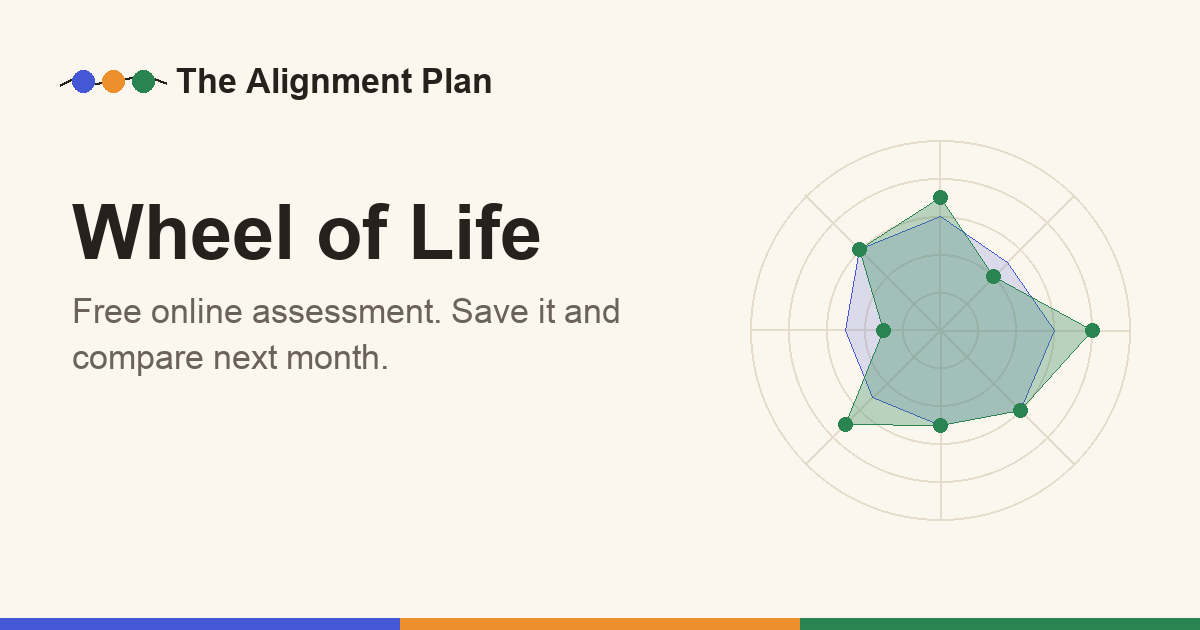
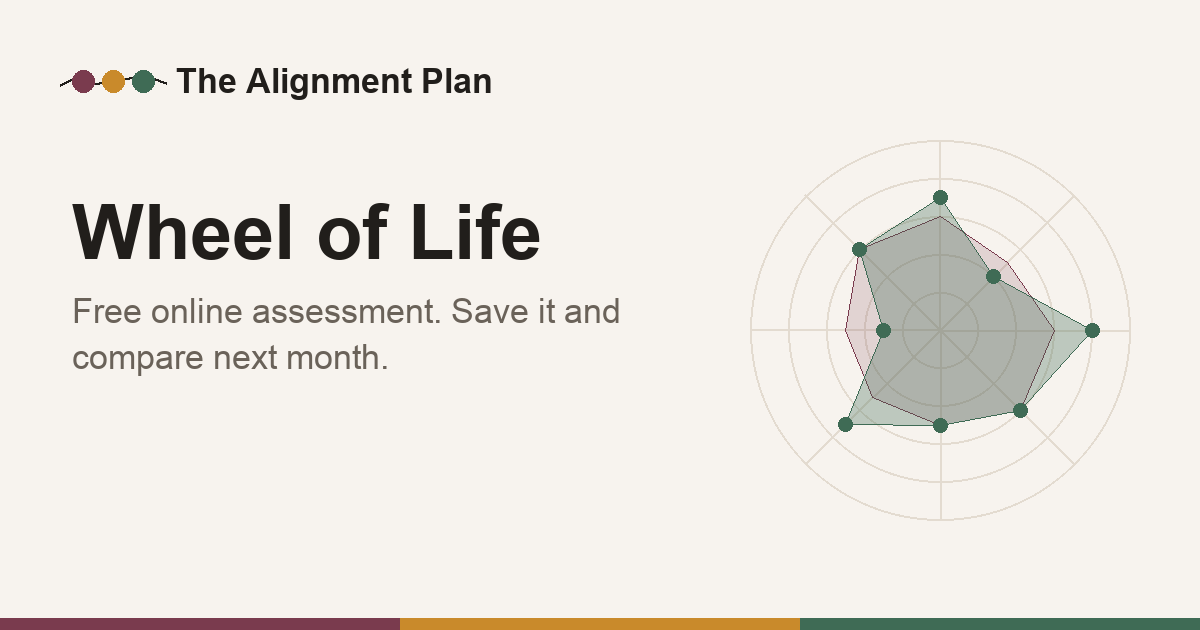
Identity v2: mulberry, honey and sage on stone, serif italic accent
The primary blue, orange and green and the blue handwriting are gone.
Three muted step colours, Instrument Serif italic for the accent word
and for the words a person wrote in the example screens. No margin notes.

diff --git a/assets/wheel.js b/assets/wheel.js
@@ -79,14 +79,14 @@
     }
     function poly(vals) { return vals.map(function (v, i) { return pt(i, v).map(function (n) { return n.toFixed(1); }).join(","); }).join(" "); }
     for (var ring = 2; ring <= 10; ring += 2) {
-      svg.appendChild(el("circle", { cx: cx, cy: cy, r: (ring / 10) * R, fill: "none", stroke: "#6b6259", "stroke-opacity": 0.25, "stroke-width": 1 }));
+      svg.appendChild(el("circle", { cx: cx, cy: cy, r: (ring / 10) * R, fill: "none", stroke: "#6a6259", "stroke-opacity": 0.25, "stroke-width": 1 }));
     }
     [5, 10].forEach(function (n) {
-      svg.appendChild(el("text", { x: cx + 4, y: cy - (n / 10) * R + 13, fill: "#6b6259", "font-size": 11, "font-family": "Instrument Sans, Arial, sans-serif" }, String(n)));
+      svg.appendChild(el("text", { x: cx + 4, y: cy - (n / 10) * R + 13, fill: "#6a6259", "font-size": 11, "font-family": "Instrument Sans, Arial, sans-serif" }, String(n)));
     });
     labels.forEach(function (name, i) {
       var p = pt(i, 10);
-      svg.appendChild(el("line", { x1: cx, y1: cy, x2: p[0], y2: p[1], stroke: "#6b6259", "stroke-opacity": 0.35, "stroke-width": 1 }));
+      svg.appendChild(el("line", { x1: cx, y1: cy, x2: p[0], y2: p[1], stroke: "#6a6259", "stroke-opacity": 0.35, "stroke-width": 1 }));
       var lp = pt(i, 11.1);
       var middle = Math.abs(lp[0] - cx) < 10;
       var anchor = middle ? "middle" : (lp[0] < cx ? "end" : "start");
@@ -95,7 +95,7 @@
       if (middle && lp[1] < cy) y = lp[1] - 4 - (lines.length - 1) * lh;      // top: stack upwards
       else if (middle) y = lp[1] + font;                                       // bottom: stack downwards
       else y = lp[1] + font * 0.35 - (lines.length - 1) * lh / 2;              // sides: centre on the spoke
-      var t = el("text", { x: lp[0].toFixed(1), y: y.toFixed(1), "text-anchor": anchor, fill: "#26211c", "font-size": font, "font-family": "Instrument Sans, Arial, sans-serif", "font-weight": 600 });
+      var t = el("text", { x: lp[0].toFixed(1), y: y.toFixed(1), "text-anchor": anchor, fill: "#211e1b", "font-size": font, "font-family": "Instrument Sans, Arial, sans-serif", "font-weight": 600 });
       lines.forEach(function (line, n) { t.appendChild(el("tspan", { x: lp[0].toFixed(1), dy: n ? lh : 0 }, line)); });
       svg.appendChild(t);
       // A long custom name is shrunk to fit inside the picture instead of being cut off.
@@ -107,9 +107,9 @@
     });
     if (blank) return;
     var cmp = entryById(compareId);
-    if (cmp) svg.appendChild(el("polygon", { points: poly(cmp.scores), fill: "#4458d6", "fill-opacity": 0.16, stroke: "#4458d6", "stroke-width": 1.5 }));
-    svg.appendChild(el("polygon", { points: poly(now), fill: "#2a8452", "fill-opacity": 0.28, stroke: "#2a8452", "stroke-width": 2.5 }));
-    now.forEach(function (v, i) { var p = pt(i, v); svg.appendChild(el("circle", { cx: p[0].toFixed(1), cy: p[1].toFixed(1), r: 4.5, fill: "#2a8452" })); });
+    if (cmp) svg.appendChild(el("polygon", { points: poly(cmp.scores), fill: "#7a3b4e", "fill-opacity": 0.16, stroke: "#7a3b4e", "stroke-width": 1.5 }));
+    svg.appendChild(el("polygon", { points: poly(now), fill: "#3f6b55", "fill-opacity": 0.28, stroke: "#3f6b55", "stroke-width": 2.5 }));
+    now.forEach(function (v, i) { var p = pt(i, v); svg.appendChild(el("circle", { cx: p[0].toFixed(1), cy: p[1].toFixed(1), r: 4.5, fill: "#3f6b55" })); });
     svg.setAttribute("aria-label", "Your wheel of life. " + labels.map(function (l, i) { return l + " " + now[i]; }).join(", ") + ".");
   }
 

diff --git a/assets/home.css b/assets/home.css
@@ -213,12 +213,11 @@
   .tools .hub .go { grid-column: 2; grid-row: 1 / span 2; margin: 0; font-size: 14px; color: var(--ink-2); }
 }
 
-/* ---- Identity: what it is, the waiting list, and the handwriting ---- */
+/* ---- Identity: what it is, the waiting list, and the serif accent ---- */
 .eyebrow { font-size: 14px; font-weight: 600; letter-spacing: 0.02em; color: var(--ink-2); display: inline-flex; align-items: center; gap: 8px; }
 .eyebrow::before { content: ""; width: 22px; height: 2px; border-radius: 2px; background: var(--s2); }
 .hero .lede b { font-weight: 600; }
-.hero h1 .hand { position: relative; display: inline-block; font-family: var(--hand); font-weight: 700; font-size: 1.2em; line-height: 0.8; letter-spacing: 0; color: var(--s1); transform: rotate(-3deg); padding-inline: 0.03em; }
-.hero h1 .hand svg { position: absolute; left: 0; bottom: -0.14em; width: 100%; height: 0.16em; overflow: visible; }
+.hero h1 .accent { font-family: var(--serif); font-style: italic; font-weight: 400; font-size: 1.1em; letter-spacing: -0.01em; color: var(--s1); padding-right: 0.04em; }
 ol.pills { list-style: none; margin: 0; padding: 0; }
 .pill b { display: inline-grid; place-items: center; width: 20px; height: 20px; border-radius: 50%; background: var(--card); font-size: 12px; margin-right: 4px; }
 .pill:nth-child(1) { transform: rotate(-1.5deg); } .pill:nth-child(2) { transform: rotate(1deg); } .pill:nth-child(3) { transform: rotate(-0.5deg); }
@@ -229,21 +228,11 @@ ol.pills { list-style: none; margin: 0; padding: 0; }
 .wl-note { font-size: 14px; color: var(--ink-2); }
 .fact .cap { margin-bottom: 4px; }
 
-/* Anything a person wrote is in their handwriting. The product's own words stay in type. */
-.mini .card .in.filled:not([style]), .q .in:not(.empty), .north { font-family: var(--hand); font-size: 19px; line-height: 1.15; color: var(--s1-ink); font-weight: 500; }
-.north { font-size: 18px; }
-
-/* Notes in the margin, with a hand-drawn arrow */
-.stage-wrap { margin-top: 30px; }
-.scribble { position: absolute; z-index: 2; margin: 0; font-family: var(--hand); font-size: 23px; font-weight: 700; line-height: 1; color: var(--s1-ink); display: flex; align-items: flex-end; gap: 6px; white-space: nowrap; pointer-events: none; }
-.scribble svg { width: 34px; height: 28px; flex: none; }
-.note-1 { top: -38px; right: 22px; transform: rotate(-3deg); }
-.note-2 { left: 262px; bottom: -44px; transform: rotate(2deg); align-items: center; }
-@media (max-width: 900px) { .note-2 { left: 284px; bottom: 8px; } }
-@media (max-width: 700px) { .note-2 { display: none; } }
+/* The words a person wrote are in serif italic. The product's own words stay in the sans. */
+.mini .card .in.filled:not([style]), .q .in:not(.empty), .north { font-family: var(--serif); font-style: italic; font-size: 17px; line-height: 1.25; color: var(--ink); }
+.mrow.cur .st { background: var(--s2-ink); }
 @media (max-width: 560px) {
   .wl-row .btn { flex: 1 1 100%; }
-  .scribble { font-size: 21px; }
 }
 
 .wl-note a { color: inherit; }

diff --git a/index.html b/index.html
@@ -16,7 +16,7 @@
 <meta name="twitter:card" content="summary_large_image">
 <link rel="preconnect" href="https://fonts.googleapis.com">
 <link rel="preconnect" href="https://fonts.gstatic.com" crossorigin>
-<link rel="stylesheet" href="https://fonts.googleapis.com/css2?family=Bricolage+Grotesque:opsz,wght@12..96,500;12..96,700;12..96,800&family=Caveat:wght@500;700&family=Instrument+Sans:wght@400;500;600&display=swap">
+<link rel="stylesheet" href="https://fonts.googleapis.com/css2?family=Bricolage+Grotesque:opsz,wght@12..96,500;12..96,700;12..96,800&family=Instrument+Sans:wght@400;500;600&family=Instrument+Serif:ital@1&display=swap">
 <link rel="icon" href="assets/favicon.svg" type="image/svg+xml">
 <link rel="stylesheet" href="assets/site.css">
 <link rel="stylesheet" href="assets/home.css">
@@ -137,7 +137,7 @@
 <section class="hero gutter"><div class="wrap">
   <div class="copy">
     <p class="eyebrow">An online planner for your whole year</p>
-    <h1>Plan your year. Then <span class="hand">actually<svg viewBox="0 0 200 12" preserveAspectRatio="none" aria-hidden="true"><path d="M3 8C40 2 82 11 122 6s58-3 75 1" fill="none" stroke="currentColor" stroke-width="3" stroke-linecap="round"/></svg></span> stick to it.</h1>
+    <h1>Plan your year. Then <em class="accent">actually</em> stick to it.</h1>
     <p class="lede"><b>The Alignment Plan is a guided yearly planner you do online.</b> In December it walks you through a reflection on your year and turns your goals into a step for every month. Then it checks in with you every Friday, by email or WhatsApp, so the plan is still alive in June.</p>
     <ol class="pills" aria-label="The three steps">
       <li class="pill c1"><b>1</b> Reflect on your year</li>
@@ -151,7 +151,6 @@
     <p class="fine muted">Want something today? <a href="#tools">Try the free tools</a>.</p>
   </div>
   <div class="stage-wrap">
-    <p class="scribble note-1" aria-hidden="true">your whole year, one screen<svg viewBox="0 0 34 28"><path d="M4 4c13 0 22 6 24 19M21 16l7 8 4-10" fill="none" stroke="currentColor" stroke-width="2" stroke-linecap="round" stroke-linejoin="round"/></svg></p>
     <div class="screen" role="img" aria-label="The Alignment Plan dashboard: focus for the year, focus for the month, the Fridays you moved on it, the life wheel and each year goal with this month's step">
       <div class="bar"><i></i><i></i><i></i><span>The Alignment Plan · 2027</span></div>
       <div class="body">
@@ -181,7 +180,6 @@
       </div>
     </div>
     <div class="float f1" aria-hidden="true"><b>Friday. Did you move on it this week?</b><div class="ans"><span>Yes</span><span class="on">A bit</span><span>No</span></div></div>
-    <p class="scribble note-2" aria-hidden="true"><svg viewBox="0 0 34 28"><path d="M31 7C20 4 10 9 5 19M4 8l1 12 11-4" fill="none" stroke="currentColor" stroke-width="2" stroke-linecap="round" stroke-linejoin="round"/></svg>one tap. that's it.</p>
   </div>
 </div></section>
 

diff --git a/assets/site.css b/assets/site.css
@@ -1,17 +1,17 @@
 /* The Alignment Plan: shared stylesheet for every page. The colours, type and logo live here.
    Light design only. */
 :root {
-  /* Warm paper, soft ink. One colour for each step: Reflect (pen blue), Plan (marigold), Stay aligned (leaf green). */
-  --paper: #fbf6ee; --paper-2: #f3ecdf; --ink: #26211c; --ink-2: #6b6259; --line: #e6dccb;
-  --s1: #4458d6; --s1-tint: #e7eaff; --s1-ink: #2b3aa8;
-  --s2: #ee8f2e; --s2-tint: #ffecd2; --s2-ink: #94500a;
-  --s3: #2a8452; --s3-tint: #ddf1e3; --s3-ink: #1c6540;
-  --card: #fffdf9;
-  --shadow: 0 20px 50px rgba(38,33,28,0.12), 0 2px 6px rgba(38,33,28,0.06);
+  /* Stone paper, soft ink. One muted colour for each step: Reflect (mulberry), Plan (honey), Stay aligned (sage). */
+  --paper: #f7f3ee; --paper-2: #efe9e1; --ink: #211e1b; --ink-2: #6a6259; --line: #e3dbd0;
+  --s1: #7a3b4e; --s1-tint: #f3e4e8; --s1-ink: #5e2a3a;
+  --s2: #c98a2b; --s2-tint: #f7ebd3; --s2-ink: #7a5210;
+  --s3: #3f6b55; --s3-tint: #e0ece4; --s3-ink: #2b4d3c;
+  --card: #fffdfb;
+  --shadow: 0 20px 50px rgba(33,30,27,0.10), 0 2px 6px rgba(33,30,27,0.05);
   --display: "Bricolage Grotesque", "Helvetica Neue", Arial, sans-serif;
   --body: "Instrument Sans", "Helvetica Neue", Arial, sans-serif;
-  /* Handwriting: used wherever a person is speaking (their answers, a note in the margin). Never for buttons or body text. */
-  --hand: "Caveat", "Bradley Hand", "Segoe Print", cursive;
+  /* Serif italic: the one accent word in a headline, and the words a person wrote in the example screens. */
+  --serif: "Instrument Serif", Georgia, "Times New Roman", serif;
   color-scheme: light;
 }
 * { box-sizing: border-box; }
@@ -180,7 +180,7 @@ footer a:hover { text-decoration: underline; }
 
 /* Home hub */
 .hub { display: grid; grid-template-columns: repeat(4, minmax(0, 1fr)); gap: 16px; }
-.hub a { display: grid; gap: 8px; align-content: start; background: var(--card); border: 1px solid var(--line); border-radius: 18px; padding: 22px; text-decoration: none; box-shadow: 0 4px 14px rgba(38,33,28,0.06); }
+.hub a { display: grid; gap: 8px; align-content: start; background: var(--card); border: 1px solid var(--line); border-radius: 18px; padding: 22px; text-decoration: none; box-shadow: 0 4px 14px rgba(33,30,27,0.06); }
 .hub a:hover { border-color: var(--ink); }
 .hub .tag { justify-self: start; font-size: 12px; font-weight: 600; padding: 4px 10px; border-radius: 999px; }
 .hub a:nth-child(4n+1) .tag { background: var(--s1-tint); color: var(--s1-ink); }
@@ -459,5 +459,4 @@ ol.prompts li.answered::before { color: var(--s3-ink); }
 
 /* Logo mark and small shared pieces of the identity */
 .logo .mark { width: 40px; height: 16px; flex: none; color: var(--ink); }
-.hand { font-family: var(--hand); }
 .sr-only { position: absolute; width: 1px; height: 1px; overflow: hidden; clip-path: inset(50%); white-space: nowrap; }

diff --git a/_build/home.html b/_build/home.html
@@ -2,7 +2,7 @@
 <section class="hero gutter"><div class="wrap">
   <div class="copy">
     <p class="eyebrow">An online planner for your whole year</p>
-    <h1>Plan your year. Then <span class="hand">actually<svg viewBox="0 0 200 12" preserveAspectRatio="none" aria-hidden="true"><path d="M3 8C40 2 82 11 122 6s58-3 75 1" fill="none" stroke="currentColor" stroke-width="3" stroke-linecap="round"/></svg></span> stick to it.</h1>
+    <h1>Plan your year. Then <em class="accent">actually</em> stick to it.</h1>
     <p class="lede"><b>The Alignment Plan is a guided yearly planner you do online.</b> In December it walks you through a reflection on your year and turns your goals into a step for every month. Then it checks in with you every Friday, by email or WhatsApp, so the plan is still alive in June.</p>
     <ol class="pills" aria-label="The three steps">
       <li class="pill c1"><b>1</b> Reflect on your year</li>
@@ -13,7 +13,6 @@
     <p class="fine muted">Want something today? <a href="#tools">Try the free tools</a>.</p>
   </div>
   <div class="stage-wrap">
-    <p class="scribble note-1" aria-hidden="true">your whole year, one screen<svg viewBox="0 0 34 28"><path d="M4 4c13 0 22 6 24 19M21 16l7 8 4-10" fill="none" stroke="currentColor" stroke-width="2" stroke-linecap="round" stroke-linejoin="round"/></svg></p>
     <div class="screen" role="img" aria-label="The Alignment Plan dashboard: focus for the year, focus for the month, the Fridays you moved on it, the life wheel and each year goal with this month's step">
       <div class="bar"><i></i><i></i><i></i><span>The Alignment Plan · 2027</span></div>
       <div class="body">
@@ -43,7 +42,6 @@
       </div>
     </div>
     <div class="float f1" aria-hidden="true"><b>Friday. Did you move on it this week?</b><div class="ans"><span>Yes</span><span class="on">A bit</span><span>No</span></div></div>
-    <p class="scribble note-2" aria-hidden="true"><svg viewBox="0 0 34 28"><path d="M31 7C20 4 10 9 5 19M4 8l1 12 11-4" fill="none" stroke="currentColor" stroke-width="2" stroke-linecap="round" stroke-linejoin="round"/></svg>one tap. that's it.</p>
   </div>
 </div></section>
 

diff --git a/assets/bingo.js b/assets/bingo.js
@@ -151,9 +151,9 @@
   // The picture to save or share: the same card, drawn on a canvas.
   function picture() {
     var n = state.size, W = 1080, H = 1350, c = document.createElement("canvas"); c.width = W; c.height = H;
-    var x = c.getContext("2d"), INK = "#26211c";
-    x.fillStyle = "#f3ecdf"; x.fillRect(0, 0, W, H);
-    ["#4458d6", "#ee8f2e", "#2a8452"].forEach(function (col, k) { x.beginPath(); x.arc(W / 2 - 30 + k * 30, 70, 10, 0, Math.PI * 2); x.fillStyle = col; x.fill(); });
+    var x = c.getContext("2d"), INK = "#211e1b";
+    x.fillStyle = "#efe9e1"; x.fillRect(0, 0, W, H);
+    ["#7a3b4e", "#c98a2b", "#3f6b55"].forEach(function (col, k) { x.beginPath(); x.arc(W / 2 - 30 + k * 30, 70, 10, 0, Math.PI * 2); x.fillStyle = col; x.fill(); });
     x.textAlign = "center"; x.textBaseline = "alphabetic";
     var ft = K.fit(x, state.title.trim() || DEFAULT_TITLE, 800, K.DISPLAY, W - 140, 132, 80, 36, 1.05);
     x.font = K.font(800, ft.size, K.DISPLAY); x.fillStyle = INK;
@@ -163,7 +163,7 @@
     var max = { 3: 46, 4: 38, 5: 30 }[n];
     live().forEach(function (sq, i) {
       var cx = gx + (i % n) * (cell + gap), cy = gy + Math.floor(i / n) * (cell + gap), text = sq.t.trim(), on = text && sq.done;
-      K.rr(x, cx, cy, cell, cell, 18); x.fillStyle = on ? "#2a8452" : "#ffffff"; x.fill();
+      K.rr(x, cx, cy, cell, cell, 18); x.fillStyle = on ? "#3f6b55" : "#ffffff"; x.fill();
       if (!on) { K.rr(x, cx + 1.5, cy + 1.5, cell - 3, cell - 3, 18); x.strokeStyle = "#d8d8d2"; x.lineWidth = 3; x.stroke(); }
       if (!text) return;
       var f = K.fit(x, text, 600, K.BODY, cell - 26, cell - 26, max, 16, 1.18);
@@ -171,7 +171,7 @@
       var y0 = cy + cell / 2 - (f.lines.length * f.lh) / 2 + f.size * 0.82;
       f.lines.forEach(function (line, k) { x.fillText(line, cx + cell / 2, y0 + k * f.lh); });
     });
-    x.font = K.font(600, 22, K.BODY); x.fillStyle = "#6b6259";
+    x.font = K.font(600, 22, K.BODY); x.fillStyle = "#6a6259";
     x.fillText("The Alignment Plan", W / 2, H - 40);
     return c;
   }

diff --git a/assets/board.js b/assets/board.js
@@ -12,10 +12,10 @@
   var DEFAULT = ["Career", "Money", "Health", "Family and friends", "Love", "Personal growth", "Fun", "Home"];
   var HINTS = ["Work I am proud of", "Three months of savings", "Run 5k without stopping", "Sunday lunch, every month",
     "A weekend away, just us", "Hold a conversation in Spanish", "A tent, a lake, no phone", "A table that seats eight"];
-  var TINT = ["#e7eaff", "#ffecd2", "#ddf1e3", "#ffecd2", "#e7eaff", "#ddf1e3", "#e7eaff", "#ffecd2"];
-  var INKS = ["#2b3aa8", "#94500a", "#1c6540", "#94500a", "#2b3aa8", "#1c6540", "#2b3aa8", "#94500a"];
+  var TINT = ["#f3e4e8", "#f7ebd3", "#e0ece4", "#f7ebd3", "#f3e4e8", "#e0ece4", "#f3e4e8", "#f7ebd3"];
+  var INKS = ["#5e2a3a", "#7a5210", "#2b4d3c", "#7a5210", "#5e2a3a", "#2b4d3c", "#5e2a3a", "#7a5210"];
   var POS = [0, 1, 2, 3, 5, 6, 7, 8];
-  var INK = "#26211c", INK2 = "#6b6259", PAPER2 = "#f3ecdf";
+  var INK = "#211e1b", INK2 = "#6a6259", PAPER2 = "#efe9e1";
 
   var toast = document.getElementById("toast");
   var list = document.getElementById("tiles");
@@ -105,7 +105,7 @@
     K.rr(ctx, c.x, c.y, tw, th, 26);
     if (blank) { ctx.fillStyle = "#ffffff"; ctx.fill(); K.rr(ctx, c.x + 1, c.y + 1, tw - 2, th - 2, 26); ctx.strokeStyle = "#8a8a94"; ctx.lineWidth = 2; ctx.stroke(); }
     else { ctx.fillStyle = INK; ctx.fill(); }
-    ["#4458d6", "#ee8f2e", "#2a8452"].forEach(function (col, n) {
+    ["#7a3b4e", "#c98a2b", "#3f6b55"].forEach(function (col, n) {
       ctx.beginPath(); ctx.arc(cx - 26 + n * 26, c.y + 52, 9, 0, Math.PI * 2); ctx.fillStyle = col; ctx.fill();
     });
     var title = String(state.title || "").trim() || "2027";

diff --git a/bingo-card/index.html b/bingo-card/index.html
@@ -16,7 +16,7 @@
 <meta name="twitter:card" content="summary_large_image">
 <link rel="preconnect" href="https://fonts.googleapis.com">
 <link rel="preconnect" href="https://fonts.gstatic.com" crossorigin>
-<link rel="stylesheet" href="https://fonts.googleapis.com/css2?family=Bricolage+Grotesque:opsz,wght@12..96,500;12..96,700;12..96,800&family=Caveat:wght@500;700&family=Instrument+Sans:wght@400;500;600&display=swap">
+<link rel="stylesheet" href="https://fonts.googleapis.com/css2?family=Bricolage+Grotesque:opsz,wght@12..96,500;12..96,700;12..96,800&family=Instrument+Sans:wght@400;500;600&family=Instrument+Serif:ital@1&display=swap">
 <link rel="icon" href="../assets/favicon.svg" type="image/svg+xml">
 <link rel="stylesheet" href="../assets/site.css">
 <script type="application/ld+json">

diff --git a/how-to-plan-your-year/index.html b/how-to-plan-your-year/index.html
@@ -16,7 +16,7 @@
 <meta name="twitter:card" content="summary_large_image">
 <link rel="preconnect" href="https://fonts.googleapis.com">
 <link rel="preconnect" href="https://fonts.gstatic.com" crossorigin>
-<link rel="stylesheet" href="https://fonts.googleapis.com/css2?family=Bricolage+Grotesque:opsz,wght@12..96,500;12..96,700;12..96,800&family=Caveat:wght@500;700&family=Instrument+Sans:wght@400;500;600&display=swap">
+<link rel="stylesheet" href="https://fonts.googleapis.com/css2?family=Bricolage+Grotesque:opsz,wght@12..96,500;12..96,700;12..96,800&family=Instrument+Sans:wght@400;500;600&family=Instrument+Serif:ital@1&display=swap">
 <link rel="icon" href="../assets/favicon.svg" type="image/svg+xml">
 <link rel="stylesheet" href="../assets/site.css">
 <script type="application/ld+json">

diff --git a/how-to-reflect-on-your-year/index.html b/how-to-reflect-on-your-year/index.html
@@ -16,7 +16,7 @@
 <meta name="twitter:card" content="summary_large_image">
 <link rel="preconnect" href="https://fonts.googleapis.com">
 <link rel="preconnect" href="https://fonts.gstatic.com" crossorigin>
-<link rel="stylesheet" href="https://fonts.googleapis.com/css2?family=Bricolage+Grotesque:opsz,wght@12..96,500;12..96,700;12..96,800&family=Caveat:wght@500;700&family=Instrument+Sans:wght@400;500;600&display=swap">
+<link rel="stylesheet" href="https://fonts.googleapis.com/css2?family=Bricolage+Grotesque:opsz,wght@12..96,500;12..96,700;12..96,800&family=Instrument+Sans:wght@400;500;600&family=Instrument+Serif:ital@1&display=swap">
 <link rel="icon" href="../assets/favicon.svg" type="image/svg+xml">
 <link rel="stylesheet" href="../assets/site.css">
 <script type="application/ld+json">

diff --git a/journal-prompts/index.html b/journal-prompts/index.html
@@ -16,7 +16,7 @@
 <meta name="twitter:card" content="summary_large_image">
 <link rel="preconnect" href="https://fonts.googleapis.com">
 <link rel="preconnect" href="https://fonts.gstatic.com" crossorigin>
-<link rel="stylesheet" href="https://fonts.googleapis.com/css2?family=Bricolage+Grotesque:opsz,wght@12..96,500;12..96,700;12..96,800&family=Caveat:wght@500;700&family=Instrument+Sans:wght@400;500;600&display=swap">
+<link rel="stylesheet" href="https://fonts.googleapis.com/css2?family=Bricolage+Grotesque:opsz,wght@12..96,500;12..96,700;12..96,800&family=Instrument+Sans:wght@400;500;600&family=Instrument+Serif:ital@1&display=swap">
 <link rel="icon" href="../assets/favicon.svg" type="image/svg+xml">
 <link rel="stylesheet" href="../assets/site.css">
 <script type="application/ld+json">

diff --git a/life-audit/index.html b/life-audit/index.html
@@ -16,7 +16,7 @@
 <meta name="twitter:card" content="summary_large_image">
 <link rel="preconnect" href="https://fonts.googleapis.com">
 <link rel="preconnect" href="https://fonts.gstatic.com" crossorigin>
-<link rel="stylesheet" href="https://fonts.googleapis.com/css2?family=Bricolage+Grotesque:opsz,wght@12..96,500;12..96,700;12..96,800&family=Caveat:wght@500;700&family=Instrument+Sans:wght@400;500;600&display=swap">
+<link rel="stylesheet" href="https://fonts.googleapis.com/css2?family=Bricolage+Grotesque:opsz,wght@12..96,500;12..96,700;12..96,800&family=Instrument+Sans:wght@400;500;600&family=Instrument+Serif:ital@1&display=swap">
 <link rel="icon" href="../assets/favicon.svg" type="image/svg+xml">
 <link rel="stylesheet" href="../assets/site.css">
 <script type="application/ld+json">
